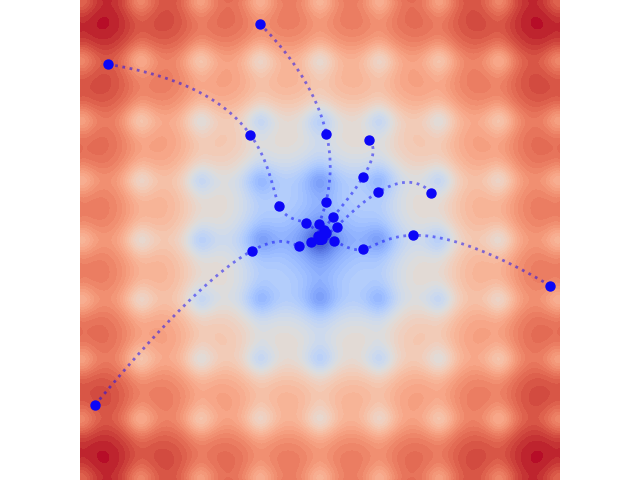
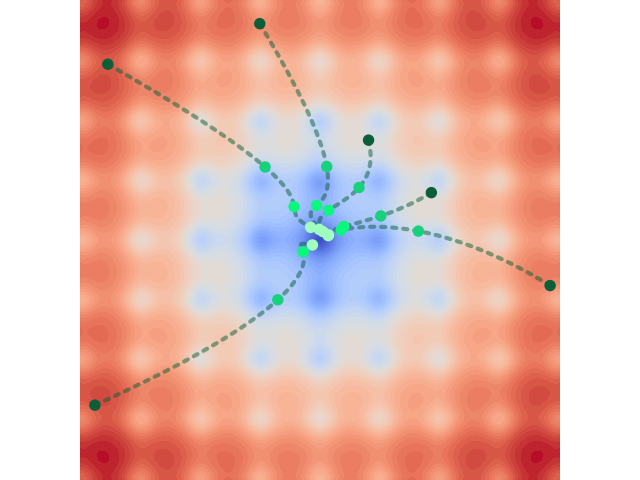
fixed comp issues in lowlevel

diff --git a/experiments/mnist.py b/experiments/mnist.py
@@ -15,7 +15,7 @@ train_loader = torch.utils.data.DataLoader(train_data, batch_size=16,
                                            shuffle=True, num_workers=2)
 
 #%% initializ network
-class Perceptron(nn.Module):
+class Perceptron():
     def __init__(self, mean = 0.0, std = 1.0, 
                  act_fun=nn.ReLU,
                  sizes = None):
@@ -25,34 +25,35 @@ class Perceptron(nn.Module):
         self.std = std
         self.act_fun = act_fun()
         self.sizes = sizes if sizes else [784, 10]
-        self.linear = nn.Linear(sizes[0], sizes[1])
+        #self.linear = nn.Linear(self.sizes[0], self.sizes[1])
 
-    def forward(self, x):
+    def __call__(self, x, W, b):
+        x = x.view([-1, 784])
         x = (x - self.mean)/self.std
-        x = self.linear(x)
+        x = W@x + b
         x = self.act_fun(x)
 
         # apply softmax
         x = nn.Softmax()(x)
         return x
-#%% Initilaize copies of the model
-M = 10
-models = [Perceptron() for i in range(M)]
+
 #%% define loss function
 device = 'cpu'
 loss_fct = nn.CrossEntropyLoss()
+model = Perceptron()
+
 def f(w):
-    #%% set weights
-    for i, model in enumerate(models):
-        model.linear.weight.data = w[0, i, :7840]
-        model.linear.bias.data   = w[0, i, 7840:]
+    print(w.shape)
+    # set weights
+    N = w.shape[1]
     
-    loss = np.zeros((1, M))  
+    loss = np.zeros((1, N))  
     for (x, y) in iter(train_loader):
         x, y = x.to(device), y.to(device)
-        
-        for i in range(M):
-            loss[0, i] += loss_fct(models[i](x), y)
+        for i in range(N):
+            loss[0, i] += loss_fct(model(x, w[0,i,:7840], w[0,i,7840:]))
+            
+            
             
     return loss
             
@@ -61,31 +62,30 @@ kwargs = {'alpha':0.01,
         'dt': 0.01,
         'sigma': 0.5,
         'lamda': 1.0,
-        'check_list': ['max_time'],
-        'T': 20,
-        'batch_size': M}
-N = 100
-conf = cbx.utils.config(**kwargs)
-x = np.zeros((1, N, 10*784 + 10))
-for i in range(N):
-    model = Perceptron()
-    x[0, i, :7840] = model.linear.weight.data.flatten()
-    x[0, i, 7840:] = model.linear.bias.data
+        'max_it':20,
+        'max_time': 20,
+        #'batch_size': M,
+        'array_mode':'torch',
+        'check_f_dims':False}
+N = 10
+x = torch.normal(0, 0.1, (1, N, 10*784 + 10))
     
-noise = cbx.noise.comp_noise(dt = conf.dt)
+noise = cbx.noise.comp_noise(dt = kwargs['dt'])
 
-dyn = CBO(x, f, noise, f_dim='3D', **kwargs)   
-
-#%%
-t = 0
-it = 0
-while not dyn.terminate():
-    dyn.step()
-    #sched.update()
+dyn = CBO(f, x=x, noise=noise,**kwargs)
+ 
+if __name__=='__main__':
+    f(dyn.x)
+# #%%
+# t = 0
+# it = 0
+# while not dyn.terminate():
+#     dyn.step()
+#     #sched.update()
     
-    if it%10 == 0:
-        print(dyn.f_min)
-        print('Alpha: ' + str(dyn.alpha))
-        print('Sigma: ' + str(dyn.sigma))
+#     if it%10 == 0:
+#         print(dyn.f_min)
+#         print('Alpha: ' + str(dyn.alpha))
+#         print('Sigma: ' + str(dyn.sigma))
         
-    it+=1    
+#     it+=1    

diff --git a/experiments/lowlevel.py b/experiments/lowlevel.py
@@ -2,39 +2,34 @@ import numpy as np
 import cbx as cbx
 from cbx.dynamic.cbo import CBO
 from cbx.objectives import Quadratic
-from cbx.scheduler import scheduler, multiply
+from cbx.utils.scheduler import scheduler, multiply
 
 np.random.seed(42)
 #%%
-conf = cbx.utils.config(**{
-        'alpha': 0.01,
-        'dt': 0.01,
+conf = {'alpha': 0.01,
+        'dt': 0.05,
         'sigma': 0.5,
         'lamda': 1.0,
         'batch_size':50,
-        'check_list': ['max_time'],
         'd': 200,
-        'T': 20,
+        'max_it': 5000,
         'N': 50,
-        'M': 2})
+        'M': 2}
 
 #%% Define the objective function
 f = Quadratic()
 
 #%% Define the initial positions of the particles
-x = cbx.utils.init_particles(shape=(conf.M, conf.N, conf.d), x_min=-3., x_max = 3.)
+x = cbx.utils.init_particles(shape=(conf['M'], conf['N'], conf['d']), x_min=-3., x_max = 3.)
 
 #%% Define the noise function
-noise = cbx.noise.comp_noise(dt = conf.dt)
+noise = cbx.noise.comp_noise(dt = conf['dt'])
 
 #%% Define the CBO algorithm
-dyn = CBO(x, f, noise, f_dim='2D', 
-          alpha = conf.alpha, dt = conf.dt, 
-          sigma = conf.sigma, lamda = conf.lamda,
-          batch_size=conf.batch_size,
-          check_list=conf.check_list)
+dyn = CBO(f, x=x, noise=noise, f_dim='2D', 
+          **conf)
 sched = scheduler(dyn, [multiply(name='alpha', factor=1.01, maximum=1e3),
-                                          multiply(name='sigma', factor=1.005, maximum=10.)])
+                        multiply(name='sigma', factor=1.005, maximum=3.)])
 #%% Run the CBO algorithm
 t = 0
 it = 0

diff --git a/experiments/JOSS/JOSS_Example.py b/experiments/JOSS/JOSS_Example.py
@@ -46,8 +46,9 @@ contour_2D(f, ax=ax, num_pts=1000,
            levels=50)
 t = np.linspace(0,1, x_hist.shape[0])
 t_eval = np.linspace(0,1, 100 * x_hist.shape[0])
-colors = ['xkcd:strong blue','xkcd:cherry', 
-          'xkcd:orange', 'xkcd:grapefruit',
+colors = ['xkcd:spruce', 
+          'xkcd:seaweed','xkcd:minty green', 
+          'xkcd:light seafoam', 'xkcd:grapefruit',
           'xkcd:grapefruit','xkcd:grapefruit', 'xkcd:rose pink']
 
 ax.axis('off')
@@ -61,16 +62,17 @@ for i in range(x_hist.shape[-2]):
     cs_1 = CubicSpline(t, x_hist[:, 0, i, 1])
     
     line = Line2D(cs_0(t_eval), cs_1(t_eval), 
-                  color='xkcd:strong blue',
-                  alpha=.5,linewidth=2,
-                  linestyle='dotted')
+                  color='xkcd:spruce',#xkcd:strong blue',
+                  alpha=.5,linewidth=3,
+                  linestyle='dotted',
+                  dash_capstyle='round')
     ax.add_line(line)
-    ax.scatter(x_hist[:, 0, i, 0], x_hist[:, 0, i, 1], 
-               color=colors,#[0], 
-               #alpha=np.linspace(.5,0., num=x_hist.shape[0]),
+    sc_idx = 4
+    ax.scatter(x_hist[:sc_idx, 0, i, 0], x_hist[:sc_idx, 0, i, 1], 
+               color=colors[:sc_idx], 
                s=52,zorder=3)
 #%%   
-save = False
+save = True
 if save:
     plt.tight_layout(pad=0.0, h_pad=0, w_pad=0)
-    plt.savefig('JOSS_2.png')
+    plt.savefig('JOSS.png')

diff --git a/cbx/dynamic/pdyn.py b/cbx/dynamic/pdyn.py
@@ -21,7 +21,7 @@ class ParticleDynamic():
     x : array_like, shape (J, d)
         The initial positions of the particles. For a system of :math:`J` particles, the i-th row of this array ``x[i,:]``
         represents the position :math:`x_i` of the i-th particle.
-    f : obejective
+    f : objective
         The objective function :math:`f(x)` of the system.
     alpha : float, optional
         The heat parameter :math:`\alpha` of the system. The default is 1.0.

diff --git a/cbx/objectives.py b/cbx/objectives.py
@@ -669,9 +669,9 @@ class Bukin6(objective):
     Examples
     --------
     >>> import numpy as np
-    >>> from cbx.objectives import Ackley
+    >>> from cbx.objectives import Bukin6
     >>> x = np.array([[1,2], [3,4], [5,6]])
-    >>> f = Ackley()
+    >>> f = Bukin6()
     >>> f(x)
     array([  68.,  148., 1556.])
 

diff --git a/cbx/utils/__init__.py b/cbx/utils/__init__.py
@@ -1,0 +1,3 @@
+from .particle_init import init_particles
+
+__all__ = ['init_particles']
